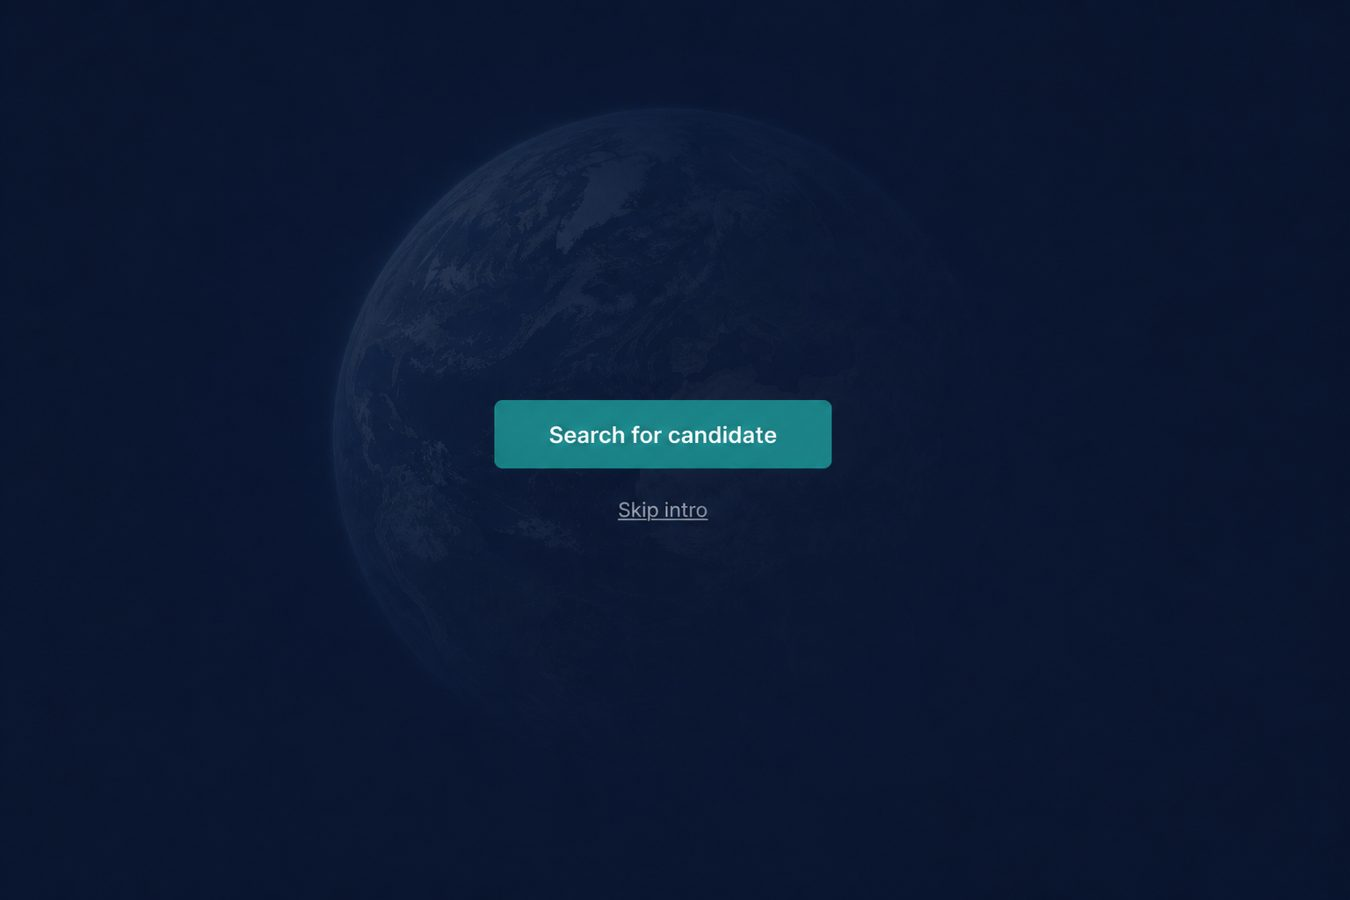
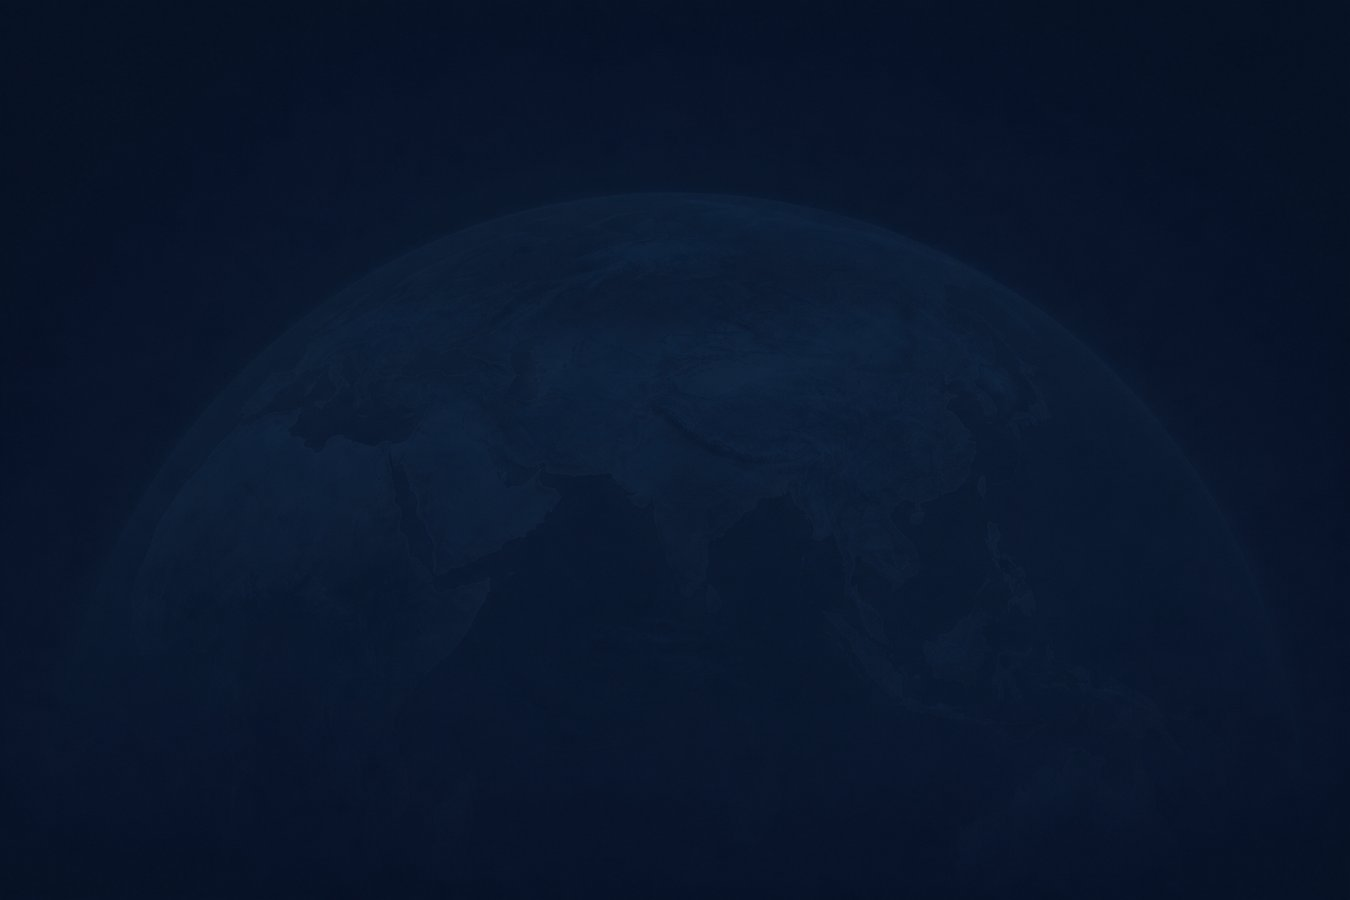
Fix intro double CTAs; lengthen and animate Searching
Replace gate/searching snapshots with button-free art so real HTML
controls are not doubled. Type Searching... twice with a longer hold,
pulse the searching background, and keep Skip available during the wait.

diff --git a/js/portfolio_JS.js b/js/portfolio_JS.js
@@ -88,6 +88,29 @@ function setIntroStage(stageName) {
     bg.className = "Intro_Stage_Bg Intro_Stage_Bg--" + stageName;
 }
 
+// Types text into Intro_Status one character at a time (searching animation)
+function typeIntroStatus(text, doneFn) {
+    var status = document.getElementById("Intro_Status");
+    if (!status) {
+        if (doneFn) { doneFn(); }
+        return;
+    }
+    status.classList.add("Intro_Status--Blink");
+    status.textContent = "";
+    var i = 0;
+    function tick() {
+        if (i <= text.length) {
+            status.textContent = text.slice(0, i);
+            i += 1;
+            introLater(tick, 70);
+        } else if (doneFn) {
+            doneFn();
+        }
+    }
+    tick();
+}
+
+
 // Shows the Quiet Medtech portfolio and hides the intro splash
 function showPortfolio() {
     clearIntroTimers();
@@ -129,36 +152,51 @@ function startCandidateSearch() {
     var status = document.getElementById("Intro_Status");
     var reduceMotion = window.matchMedia && window.matchMedia("(prefers-reduced-motion: reduce)").matches;
 
-    // Hide the gate buttons once search starts
-    if (gate) {
-        gate.style.display = "none";
+    // Hide Search button; keep Skip during Searching
+    var searchBtn = document.getElementById("Intro_Search_Button");
+    if (searchBtn) {
+        searchBtn.style.display = "none";
     }
 
-    // Reduced motion: jump to found art briefly, then portfolio
+    // Reduced motion: brief found, then portfolio
     if (reduceMotion) {
         setIntroStage("Found");
-        if (status) { status.textContent = "Mirwais Sarwary found"; }
-        introLater(showPortfolio, 700);
+        if (status) {
+            status.classList.remove("Intro_Status--Blink");
+            status.textContent = ""; // found.jpg carries the label
+        }
+        introLater(showPortfolio, 900);
         return;
     }
 
-    // Step 1: Searching snapshot
+    // Step 1: Searching snapshot + typed/flashing Searching...
     setIntroStage("Searching");
-    if (status) { status.textContent = "Searching..."; }
-
-    // Step 2: Found snapshot
-    introLater(function () {
-        setIntroStage("Found");
-        if (status) { status.textContent = "Mirwais Sarwary found"; }
-
-        // Step 3: Zoom / transition snapshot
+    typeIntroStatus("Searching...", function () {
+        // Hold on Searching longer (Skip is always available before this starts)
         introLater(function () {
-            setIntroStage("Zoom");
+            // Soft flash cycle: clear and re-type once more for motion
+            typeIntroStatus("Searching...", function () {
+                introLater(function () {
+                    // Step 2: Found
+                    setIntroStage("Found");
+                    if (status) {
+                        status.classList.remove("Intro_Status--Blink");
+                        status.textContent = ""; // found.jpg carries the label
+                    }
 
-            // Step 4: open Quiet Medtech portfolio
-            introLater(showPortfolio, 1100);
-        }, 1100);
-    }, 1400);
+                    // Step 3: Zoom / transition snapshot
+                    introLater(function () {
+                        setIntroStage("Zoom");
+                        if (status) {
+                            status.textContent = "";
+                        }
+                        // Step 4: open Quiet Medtech portfolio
+                        introLater(showPortfolio, 1600);
+                    }, 1600);
+                }, 2200); // extra hold after second Searching type-out
+            });
+        }, 2800); // hold after first Searching type-out
+    });
 }
 
 // Wire up the intro controls after the page HTML is ready

diff --git a/css/portfolio_style.css b/css/portfolio_style.css
@@ -1343,15 +1343,25 @@ body.Intro_Active {
     z-index: 3;
 }
 .Intro_Splash .Intro_Panel {
-    /* Push controls toward lower-center so they sit near snapshot CTAs */
-    margin-top: 18vh;
+    /* Center real controls on the clean gate background (no painted buttons) */
+    margin-top: 0;
 }
 .Intro_Status {
-    /* Snapshots carry the Searching/found typography; keep this for a11y */
-    color: transparent;
-    text-shadow: none;
-    min-height: 0;
-    height: 0;
-    overflow: hidden;
-    margin: 0;
+    min-height: 2.6rem;
+    margin: 0 0 1.25rem;
+    color: var(--qm-teal);
+    font-family: Consolas, "Courier New", monospace;
+    font-size: clamp(1.35rem, 3.4vw, 2rem);
+    letter-spacing: 0.04em;
+    text-shadow: 0 0 18px rgba(46, 196, 182, 0.35);
+}
+.Intro_Stage_Bg--Searching {
+    animation: Intro_Search_Pulse 2.2s ease-in-out infinite;
+}
+@keyframes Intro_Search_Pulse {
+    0%, 100% { transform: scale(1); filter: brightness(1); }
+    50% { transform: scale(1.03); filter: brightness(1.12); }
+}
+@media (prefers-reduced-motion: reduce) {
+    .Intro_Stage_Bg--Searching { animation: none; }
 }
